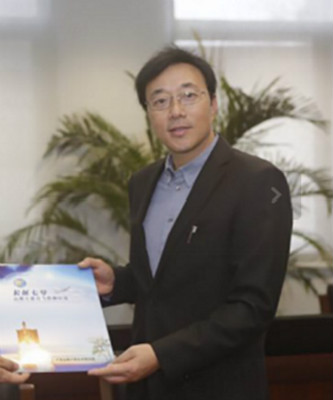
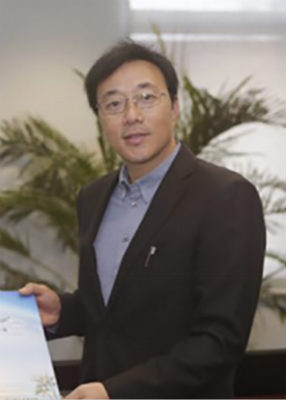
修改公司人物图像

diff --git a/AI_Institute/about.html b/AI_Institute/about.html
@@ -64,6 +64,11 @@
 			.companyDesc p {
 				text-indent: 2em;
 			}
+			/*设置图像的宽度*/
+			.img-item img {
+				width: 260px;
+				height: 315px;
+			}
 		</style>
 
 	</head>
@@ -286,23 +291,23 @@
 										<h3>技术</h3>
 									</div>
 									<div class="row">
-										<div class="col-xs-6 col-md-3">
+										<div class="col-xs-6 col-md-3 img-item">
 											<img src="img/zhaoyh.jpg" class="img-responsive center-block" />
 											<div class="text-center"><strong>赵永红</strong></div>
 											<p>研究院联合创始人,中国科学院物理研究所博士,加拿大麦吉尔大学博士后,香港大学博士后,在机器学习与材料物理方向及工业图像检测方向有20余年研究,在Nano Letters，PRB等刊物发表论文近20篇</p>
 										</div>
-										<div class="col-xs-6 col-md-3">
+										<div class="col-xs-6 col-md-3 img-item">
 											<img src="img/liudp.jpg" class="img-responsive center-block" />
 											<div class="text-center"><strong>刘东屏 Steven</strong></div>
 											<p>研究院联合创始人,中国学院物理研究所博士，高级研究员,加拿大麦吉尔大学博士后,在MRAM+FPGA芯片领域获得北京市科技进步一等奖,著有相关专利10余项</p>
 										</div>
 
-										<div class="col-xs-6 col-md-3">
+										<div class="col-xs-6 col-md-3 img-item">
 											<img src="img/wangb.jpg" class="img-responsive center-block" />
 											<div class="text-center"><strong>王斌</strong></div>
 											<p>研究院联合创始人,香港大学物理系博士,香港大学物理系博士后,深圳市海外高层次人才、“孔雀计划”B类引进人才,迄今发表高水平学术论文共计20篇，全部被SCI收录</p>
 										</div>
-										<div class="col-xs-6 col-md-3">
+										<div class="col-xs-6 col-md-3 img-item">
 											<img src="img/liuxiang.jpg" class="img-responsive center-block" />
 											<div class="text-center"><strong>刘翔</strong></div>
 
@@ -311,12 +316,12 @@
 									</div>
 
 									<div class="row">
-										<div class="col-xs-6 col-md-3">
+										<div class="col-xs-6 col-md-3 img-item">
 											<img src="img/guohong.jpg" class="img-responsive center-block" />
 											<div class="text-center"><strong>郭鸿</strong></div>
 											<p>研究院首席技术顾问、加拿大皇家科学院院士、美国物理学会会士、中国科学院物理研究所外籍院士</p>
 										</div>
-										<div class="col-xs-6 col-md-3">
+										<div class="col-xs-6 col-md-3 img-item">
 											<img src="img/xuhu.jpg" class="img-responsive center-block" />
 											<div class="text-center"><strong>徐虎</strong></div>
 											<p>研究院高级技术顾问、南方科技大学物理学教授、中国科学院理化技术研究所博士、深圳市海外高层次人才“孔雀计划”入选者、国家自然科学基金青年项目，项目负责人</p>
@@ -324,18 +329,18 @@
 
 									</div>
 									<div class="row">
-										<div class="col-xs-6 col-md-3">
+										<div class="col-xs-6 col-md-3 img-item">
 											<img src="img/liuzhikang.jpg" class="img-responsive center-block" />
 											<div class="text-center"><strong>刘志康 Mike</strong></div>
 											<p>研究院机械电子工程师、西北工业大学优秀公派留学生、西北工业大学工学学士、法国特鲁瓦工程技术大学（UTT）工程师学位</p>
 										</div>
-										<div class="col-xs-6 col-md-3">
+										<div class="col-xs-6 col-md-3 img-item">
 											<img src="img/shuaiyufeng.jpg" class="img-responsive center-block" />
 											<div class="text-center"><strong>帅宇峰 Arthur</strong></div>
 											<p>研究院机械电子工程师、北京航空航天大学工学学士、法国特鲁瓦工程技术大学（UTT）工程师学位应力分析方向、法国特鲁瓦工程技术大学（UTT）材料机械博士在读</p>
 										</div>
-										<div class="col-xs-6 col-md-3">
-											<img src="img/" class="img-responsive center-block" />
+										<div class="col-xs-6 col-md-3 img-item">
+											<img src="img/yuxianze.jpg" class="img-responsive center-block" />
 											<div class="text-center"><strong>余显泽 Echo</strong></div>
 											<p>研究院电子工程师、北京城市学院实验系教师、在单片机控制，物理通信协议，可穿戴设备，RFID识别等领域、6年行业从业经验</p>
 										</div>
@@ -345,12 +350,12 @@
 										<h3>商业</h3>
 									</div>
 									<div class="row">
-										<div class="col-xs-6 col-md-3">
+										<div class="col-xs-6 col-md-3 img-item">
 											<img src="img/chenhaotian.jpg" class="img-responsive center-block" />
 											<div class="text-center"><strong>陈昊天 Hunter</strong></div>
 											<p>研究院首席运营官、澳大利亚墨尔本大学工商管理硕士、经济学学士、前Heywines葡萄酒智能推荐系统创始人</p>
 										</div>
-										<div class="col-xs-6 col-md-3">
+										<div class="col-xs-6 col-md-3 img-item">
 											<img src="img/luokangjin.jpg" class="img-responsive center-block" />
 											<div class="text-center"><strong>罗晋康 Logan</strong></div>
 											<p>研究院高级商务经理、前赛亿科技高级商务经理、3年软硬件解决方案销售经验</p>

diff --git a/AI_Institute/joinUs.html b/AI_Institute/joinUs.html
@@ -23,6 +23,40 @@
 		<link rel="stylesheet" href="css/animate-tool.css" />
 		<!--基础样式库-自定义-->
 		<link rel="stylesheet" href="css/comment.css" />
+		<style>
+			/*加入我们旁边的圆圈--临时样式*/
+			.circle {
+				width: 150px;
+				height: 150px;
+				border-radius: 50%;
+				background: url(img/demo/znjy.png) center no-repeat;
+				background-size: 150px 150px;
+			}
+			/*岗位招聘--翻转特效*/
+			.upturn-list {
+				height: 300px;
+			}
+			.upturn-list li {
+				position: relative;
+				float: left;
+				width: 250px;
+				height: 300px;
+				list-style: none;
+			}
+			.upturn-list li .flip-box {
+				position: absolute;
+				left: 0;
+				top: 0;
+				width: 250px;
+				height: 300px;
+				background: #FFF;
+				overflow: hidden;
+			}
+			.front,.back {
+				border: 1px solid red;
+			}
+		</style>
+
 	</head>
 
 	<body>
